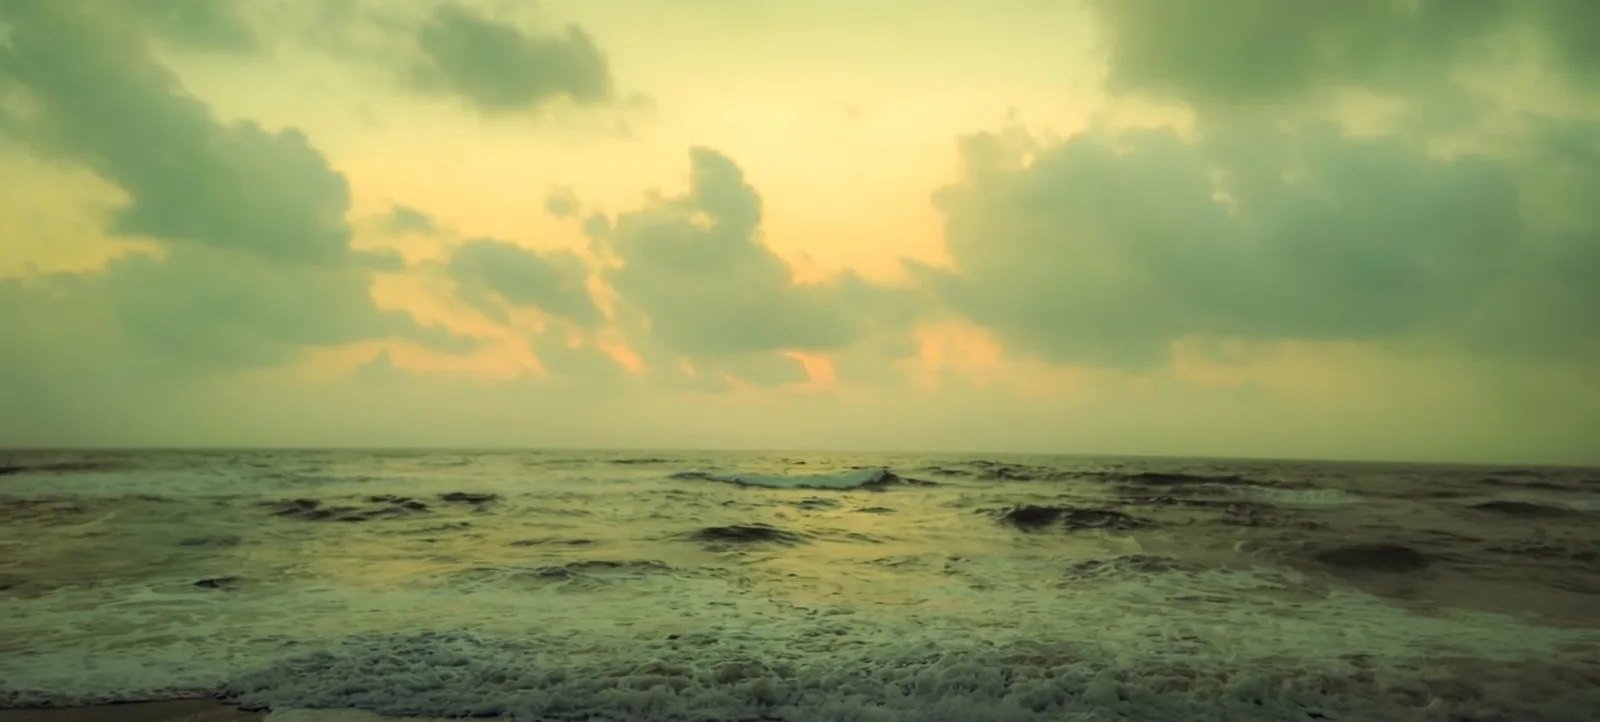
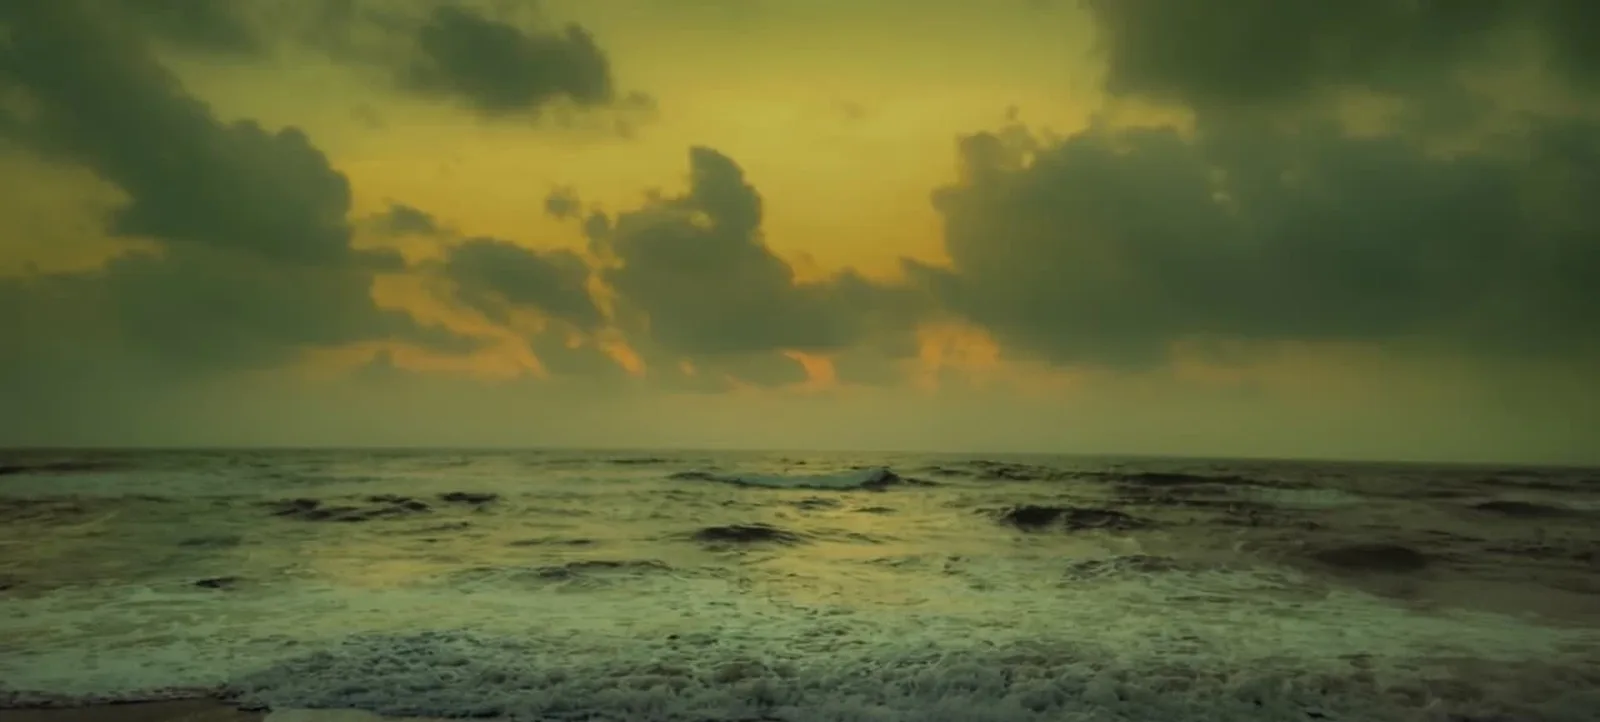
feat: lightning from the supplied frames of the shot
The dark frame is the banner; the lit and settling frames flicker over it inside the same drifting wrapper, so a strike never shifts the picture. The glow overlay is gone.

diff --git a/app/globals.css b/app/globals.css
@@ -181,7 +181,9 @@
   /* hero banner: photo band, poster wording in fixed cream and rust so it reads the same in both themes */
   .hero-canvas { height: clamp(200px, 30vw, 260px); background: #cbbd97; }
   @media (max-width: 640px) { .hero-canvas { height: 190px; } }
-  .hero-photo { position: absolute; inset: -4% -6%; width: 112%; height: 108%; max-width: none; object-fit: cover; object-position: 50% 55%; }
+  .hero-drift { position: absolute; inset: -4% -6%; }
+  .hero-photo { position: absolute; inset: 0; width: 100%; height: 100%; max-width: none; object-fit: cover; object-position: 50% 55%; }
+  .hero-frame { opacity: 0; }
   .hero-words { padding: 0 16px; color: #f7f0dd; text-shadow: 0 1px 2px rgba(20, 30, 20, 0.35), 0 8px 28px rgba(20, 30, 20, 0.25); }
   /* calligraphy over typography: the script line overlaps the top of the caps a little, as on a poster */
   .hero-script { font-family: var(--font-script), cursive; font-size: clamp(30px, 5.6vw, 50px); line-height: 1; margin-bottom: -0.28em; padding-right: 0.3em; transform: rotate(-3deg); }
@@ -193,8 +195,7 @@
   .hero-glyphs .glyph-lamp { fill: #ff6a3d; stroke: none; }
   /* on phones the band is cropped to its middle and the caps fill the width, so the buoy would cross the words */
   @media (max-width: 640px) { .hero-glyphs .glyph-buoy { display: none; } }
-  /* sheet lightning inside the cloud bank: a pale glow that blends onto the photo and flickers */
-  .hero-flash { position: absolute; inset: 0; pointer-events: none; opacity: 0; mix-blend-mode: screen; background: radial-gradient(60% 55% at 62% 18%, rgba(255, 250, 225, 0.95), rgba(255, 245, 200, 0.45) 35%, transparent 70%); }
+
 
   /* avatar: black ink on a themed disc */
   .avatar { background: var(--avatar-bg); }
@@ -268,7 +269,7 @@
     @keyframes enter-nav { from { opacity: 0; transform: translate(-50%, -8px); } to { opacity: 1; transform: translate(-50%, 0); } }
 
     /* the banner photo drifts a few percent sideways and back, slowly, like a held shot */
-    .hero-photo { animation: hero-drift 24s ease-in-out infinite alternate; }
+    .hero-drift { animation: hero-drift 24s ease-in-out infinite alternate; }
     @keyframes hero-drift { from { transform: translate3d(-2.5%, 0, 0) scale(1); } to { transform: translate3d(2.5%, 0, 0) scale(1.03); } }
     /* glyph loops, each small: the sun bobs, gulls sway and hop, the buoy bobs, the lamp blinks */
     .glyph-sun { animation: glyph-sunbob 3.6s ease-in-out infinite; }
@@ -280,12 +281,19 @@
     @keyframes glyph-bob { 0%, 100% { translate: 0 1px; rotate: -3deg; } 50% { translate: 0 -2px; rotate: 3deg; } }
     .glyph-lamp { animation: glyph-lamp 1.8s steps(1, end) infinite; }
     @keyframes glyph-lamp { 0%, 100% { opacity: 0.25; } 70% { opacity: 1; } 85% { opacity: 0.25; } }
-    /* two quick flickers then a slow fade, once every nine seconds; a second, weaker flash half way through */
-    .hero-flash { animation: hero-flash 9s linear infinite 1.5s; }
-    @keyframes hero-flash {
+    /* lightning from two later frames of the shot: the lit frame snaps on and off twice, the settling frame
+       follows and fades out as the tail. Once every nine seconds, with a weaker strike half way through. */
+    .hero-frame-1 { animation: hero-lit 9s linear infinite 1.5s; }
+    .hero-frame-2 { animation: hero-tail 9s linear infinite 1.5s; }
+    @keyframes hero-lit {
       0%, 100% { opacity: 0; }
-      1% { opacity: 0.9; } 1.8% { opacity: 0.15; } 2.6% { opacity: 1; } 3.4% { opacity: 0.35; } 6.5% { opacity: 0; }
-      54% { opacity: 0; } 54.8% { opacity: 0.55; } 55.6% { opacity: 0.1; } 56.4% { opacity: 0.4; } 59% { opacity: 0; }
+      0.7% { opacity: 1; } 1.5% { opacity: 1; } 2.2% { opacity: 0; } 4.4% { opacity: 0; } 4.8% { opacity: 0.6; } 5.3% { opacity: 0; }
+      55% { opacity: 0; } 55.5% { opacity: 0.7; } 56.2% { opacity: 0; }
+    }
+    @keyframes hero-tail {
+      0%, 100% { opacity: 0; }
+      1.8% { opacity: 0; } 2.4% { opacity: 1; } 3.8% { opacity: 1; } 8% { opacity: 0; }
+      56% { opacity: 0; } 56.5% { opacity: 0.8; } 57.5% { opacity: 0.8; } 61% { opacity: 0; }
     }
     .hero-node { animation: enter var(--t-reveal) var(--ease) both; animation-delay: 700ms; }
 

diff --git a/components/Hero.tsx b/components/Hero.tsx
@@ -13,10 +13,15 @@ export default function Hero() {
     <section id="top" aria-label="Introduction">
       {/* Banner: the beach photo drifting slowly, inked glyphs moving over it, and the tagline as calligraphy over caps */}
       <div className="hero-canvas relative overflow-hidden border-b border-line">
-        <Image src={site.banner.src} alt={site.banner.alt} width={site.banner.width} height={site.banner.height} priority sizes="(max-width: 768px) 100vw, 768px" className="hero-photo" />
+        {/* the photo and its two lit frames drift together, so a strike never shifts the picture */}
+        <div className="hero-drift" aria-hidden>
+          <Image src={site.banner.src} alt="" width={site.banner.width} height={site.banner.height} priority sizes="(max-width: 768px) 100vw, 768px" className="hero-photo" />
+          {site.bannerFrames.map((f, i) => (
+            <Image key={f.src} src={f.src} alt="" width={f.width} height={f.height} sizes="(max-width: 768px) 100vw, 768px" className={`hero-photo hero-frame hero-frame-${i + 1}`} />
+          ))}
+        </div>
+        <span className="sr-only">{site.banner.alt}</span>
         <HeroGlyphs />
-        {/* lightning: a soft glow behind the clouds that flickers twice every few seconds, no bolt */}
-        <span className="hero-flash" aria-hidden />
         <p className="hero-words relative flex h-full flex-col items-center justify-center text-center">
           <span className="enter hero-script" style={d(0)}>
             {site.heroScript}

diff --git a/components/HeroGlyphs.tsx b/components/HeroGlyphs.tsx
@@ -1,6 +1,6 @@
 // Small inked elements over the hero photo, each with its own slow CSS loop (see .glyph-* in globals.css):
-// a sun that bobs, three gulls that sway and hop, and a buoy lamp that blinks. A lightning flash over the
-// clouds is a separate overlay in Hero (.hero-flash). All are decorative; the keyframes only run when the viewer has not asked for reduced motion.
+// a sun that bobs, three gulls that sway and hop, and a buoy lamp that blinks. The lightning is two lit frames of the
+// photo flickering in Hero (.hero-frame). All are decorative; the keyframes only run when the viewer has not asked for reduced motion.
 export default function HeroGlyphs() {
   return (
     <svg className="hero-glyphs" viewBox="0 0 768 380" preserveAspectRatio="xMidYMid slice" aria-hidden focusable="false">

diff --git a/data/content.ts b/data/content.ts
@@ -8,6 +8,11 @@ export const site = {
   tagline: "Designs it. Deploys it.",
   // hero banner: the photo, and the tagline set over it as a calligraphic line above a line of caps
   banner: { src: "/hero-beach.webp", width: 1600, height: 722, alt: "Sea foam rolling in under a clouded evening sky on a Chennai beach" },
+  // two later frames of the same shot, the sky lit by lightning and then settling; they flicker over the banner
+  bannerFrames: [
+    { src: "/hero-beach-lit.webp", width: 1600, height: 722 },
+    { src: "/hero-beach-tail.webp", width: 1600, height: 722 },
+  ],
   heroScript: "started with a sketch",
   heroCaps: "ended in the cloud",
   description:

diff --git a/README.md b/README.md
@@ -16,7 +16,7 @@ npm run typecheck
 
 Everything editable lives in `data/content.ts`: name, tagline, region, email, social links, the resume path (`site.resume`, a PDF in `public/`), bio lines, the Design / Cloud columns, projects (with their detail-page copy and architecture components), stack groups, the experience log, certifications and footer text. The content was filled from the GitHub profile README, the CloudExpire, Acedra and Self-Healing repositories, and the resume.
 
-- Hero banner: `site.banner` is the photo band at the top (`public/hero-beach.webp`); it drifts slowly. The tagline over it is `site.heroScript` (calligraphy, Pinyon Script) above `site.heroCaps` (rust caps). `HeroGlyphs` draws small inked elements over the photo, a sun, gulls and a buoy lamp, each on its own CSS loop, plus a sheet-lightning glow (`.hero-flash`) that flickers over the clouds every nine seconds; all of it is still under `prefers-reduced-motion`.
+- Hero banner: `site.banner` is the photo band at the top (`public/hero-beach.webp`); it drifts slowly. The tagline over it is `site.heroScript` (calligraphy, Pinyon Script) above `site.heroCaps` (rust caps). `HeroGlyphs` draws small inked elements over the photo, a sun, gulls and a buoy lamp, each on its own CSS loop, plus lightning made from two later frames of the same shot (`site.bannerFrames`, the sky lit and then settling) that flicker over the photo every nine seconds; all of it is still under `prefers-reduced-motion`.
 - Avatar: `site.photo` is the ink sketch with a transparent background in `public/avatar-figure.webp`. The figure is black ink on its own paper silhouette, so it never changes; the disc outside it is `--avatar-bg`, which follows the page background in both themes. `site.photoClosed` is the same sketch with the eyes shut (`public/avatar-figure-closed.webp`, only the eye band differs); it sits on top and the `blink` keyframes flash it for a few frames every five seconds. The dimension label beside the avatar is a live HH:MM clock in `site.timeZone` (`DimClock`).
 - Project images live in `public/work/`: `thumbnail` is the card on the home page, the optional `banner` is the wide image at the top of the project page, and `architecture.image` is the diagram. Keep `width` and `height` accurate so there is no layout shift. The project copy, facts, features, stack and API tables are taken from each repository's README on GitHub.
 - Designer poster (bottom of the page): headline, labels, the profile cut-out and the ring of posters are in `designerPoster` in `data/content.ts`; replace any ring entry's `src` with a file in `public/design/`. The ring is a Three.js carousel (`components/PosterRing3D.tsx`, loaded on the client only): curved two-row cards with a custom shader for directional blur, glitch, chromatic shift and edge shading, a depth-only occluder for the head, hover slow-down and drag scrubbing.
